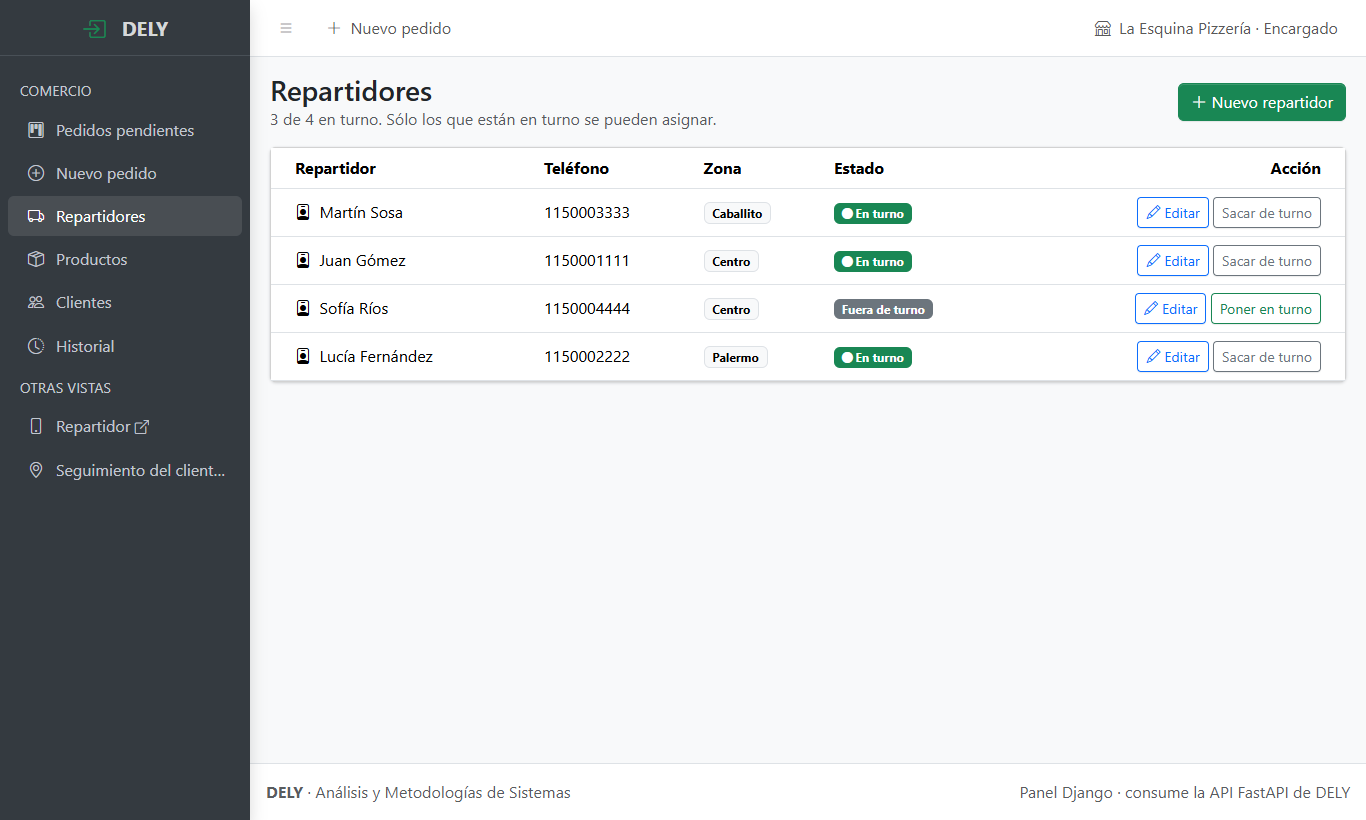
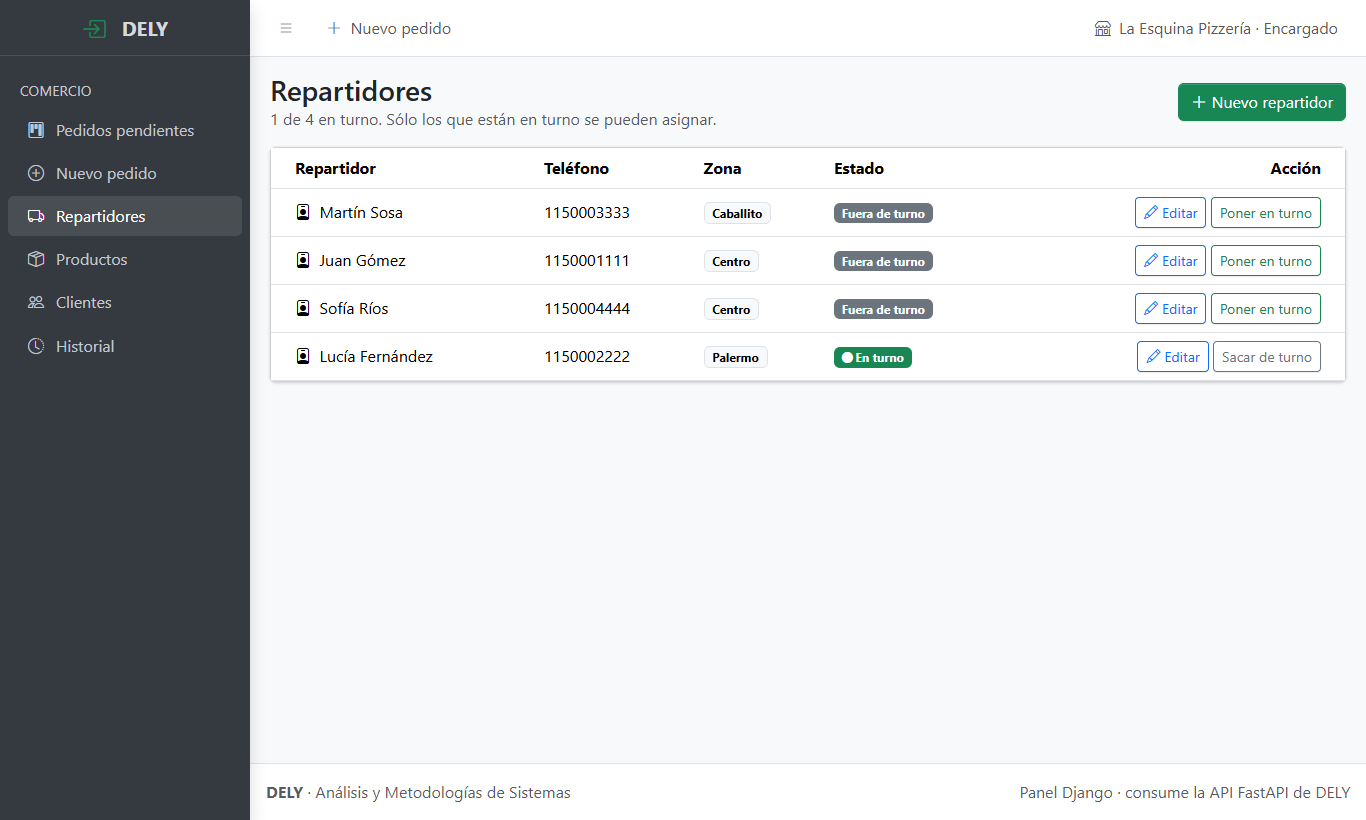
Documento el panel y el frontend como aplicaciones separadas

diff --git a/README.md b/README.md
@@ -40,7 +40,7 @@ Dely/
 | Repartidor y cliente (`frontend/`) | React 19, TypeScript, Vite, React Router |
 | Calidad | GitHub Actions: `pytest` en la API, `manage.py test` en el panel, `oxlint` y build en el frontend |
 
-El esquema sigue el que vimos en clase: **Django consume una API FastAPI** a partir de un `API_URL` definido en el `.env`, y la API es la única que accede a la base de datos.
+El esquema sigue el que vimos en clase: **Django consume una API FastAPI** a partir de un `API_URL` definido en el `.env`, y la API es la única que accede a la base de datos. El panel Django y el front React son **aplicaciones separadas**: no se enlazan entre sí y sólo comparten la API.
 
 ## Cómo ejecutarlo
 
@@ -133,9 +133,9 @@ En la API, `errores.py` traduce los errores de negocio a respuestas HTTP: 404 si
 
 ## Flujos del sistema
 
-La aplicación no tiene login: desde el inicio cada usuario elige su rol.
+No hay login. El encargado usa el panel Django (<http://127.0.0.1:8001>). El repartidor y el cliente usan el front React (<http://localhost:5173>), donde eligen su rol desde el inicio.
 
-![Pantalla de inicio con los tres roles](docs/capturas/01-inicio.png)
+![Inicio del front con los roles de repartidor y cliente](docs/capturas/01-inicio.png)
 
 ### Flujo completo de un pedido
 
@@ -164,7 +164,7 @@ sequenceDiagram
 
 ### 1. Comercio (encargado)
 
-El encargado trabaja desde el **panel Django** (`web/`, <http://127.0.0.1:8001>). Desde el inicio del front, la tarjeta *Comercio* abre el panel.
+El encargado trabaja desde el **panel Django** (`web/`, <http://127.0.0.1:8001>), una aplicación aparte de la del repartidor y el cliente.
 
 **Tablero de pendientes (HU-01).** El encargado ve los pedidos activos en tres columnas (Pendiente, Asignado y En camino), ordenados por horario estimado. Puede filtrar por zona, y un aviso marca cuántos pedidos siguen sin repartidor. Cada tarjeta muestra el código, la dirección, el cliente, la cantidad de productos, el total y el repartidor.
 

diff --git a/web/README.md b/web/README.md
@@ -21,7 +21,6 @@ Abrí <http://127.0.0.1:8001>. Se usa el puerto 8001 porque la API ocupa el 8000
 | Variable (`.env`) | Para qué sirve |
 |---|---|
 | `API_URL` | URL base de la API, por ejemplo `http://127.0.0.1:8000/api/` |
-| `FRONTEND_URL` | Front React con las vistas del repartidor y del cliente (links del menú) |
 | `SECRET_KEY`, `DEBUG`, `ALLOWED_HOSTS` | Configuración estándar de Django |
 
 ### Tests
@@ -72,7 +71,7 @@ web/
 | `/clientes/` | Alta y edición de clientes, con buscador | — |
 | `/historial/` | Pedidos entregados y cancelados, con lo facturado | — |
 
-Todo lo del comercio está en este panel. Las vistas del **repartidor** y del **cliente** están en el front React (`frontend/`), pensado para el celular, y el menú del panel tiene links a esas vistas.
+Todo lo del comercio está en este panel. Es una aplicación independiente de las vistas del **repartidor** y del **cliente** (`frontend/`): no hay links entre una y otra, y las dos se comunican sólo a través de la API.
 
 | Asignación de repartidor | Edición de un repartidor |
 |---|---|
